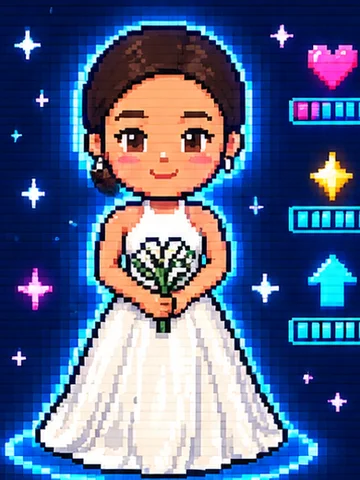
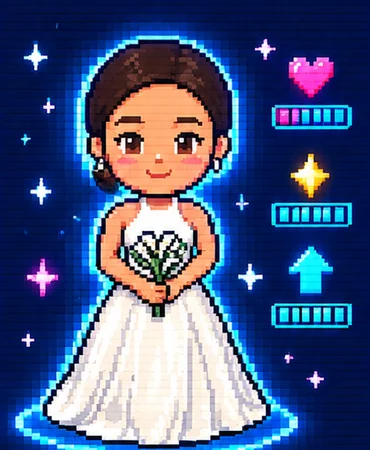
👾 캐릭터 이미지 게이지 바가 잘리지 않게 다시 자르기

diff --git a/retro-game.html b/retro-game.html
@@ -108,7 +108,7 @@
                 </p>
                 <div class="character-select">
                     <div class="character">
-                        <div class="character-sprite"><img src="images/groom-player.webp" alt="신랑 윤상현 픽셀 캐릭터" width="360" height="480"><span class="p-tag">P1</span></div>
+                        <div class="character-sprite"><img src="images/groom-player.webp" alt="신랑 윤상현 픽셀 캐릭터" width="370" height="450"><span class="p-tag">P1</span></div>
                         <div class="character-name">GROOM<span class="ko">윤상현</span>YOUN SANGHYOUN</div>
                         <div class="character-parents ko">윤태락 · 신정순의 아들</div>
                         <div class="btn-row">
@@ -117,7 +117,7 @@
                         </div>
                     </div>
                     <div class="character">
-                        <div class="character-sprite"><img src="images/bride-player.webp" alt="신부 신아람 픽셀 캐릭터" width="360" height="480"><span class="p-tag">P2</span></div>
+                        <div class="character-sprite"><img src="images/bride-player.webp" alt="신부 신아람 픽셀 캐릭터" width="370" height="450"><span class="p-tag">P2</span></div>
                         <div class="character-name">BRIDE<span class="ko">신아람</span>SHIN AHRAM</div>
                         <div class="character-parents ko">신동직 · 이선옥의 딸</div>
                         <div class="btn-row">
